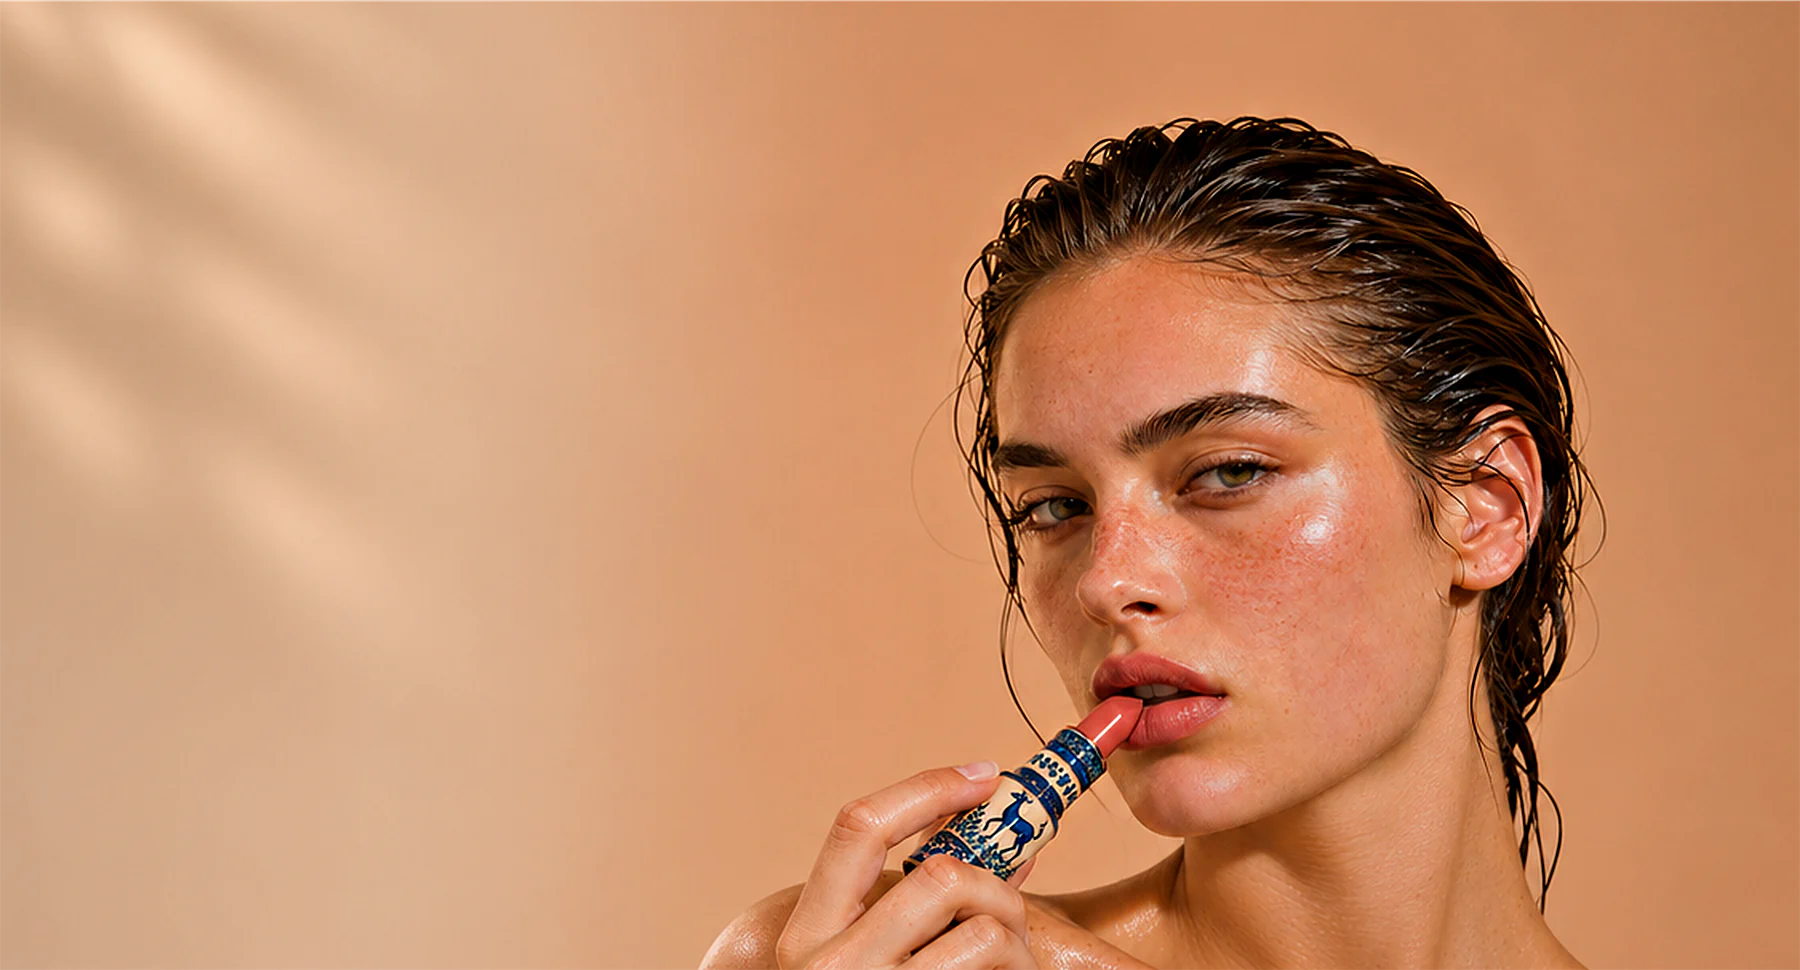
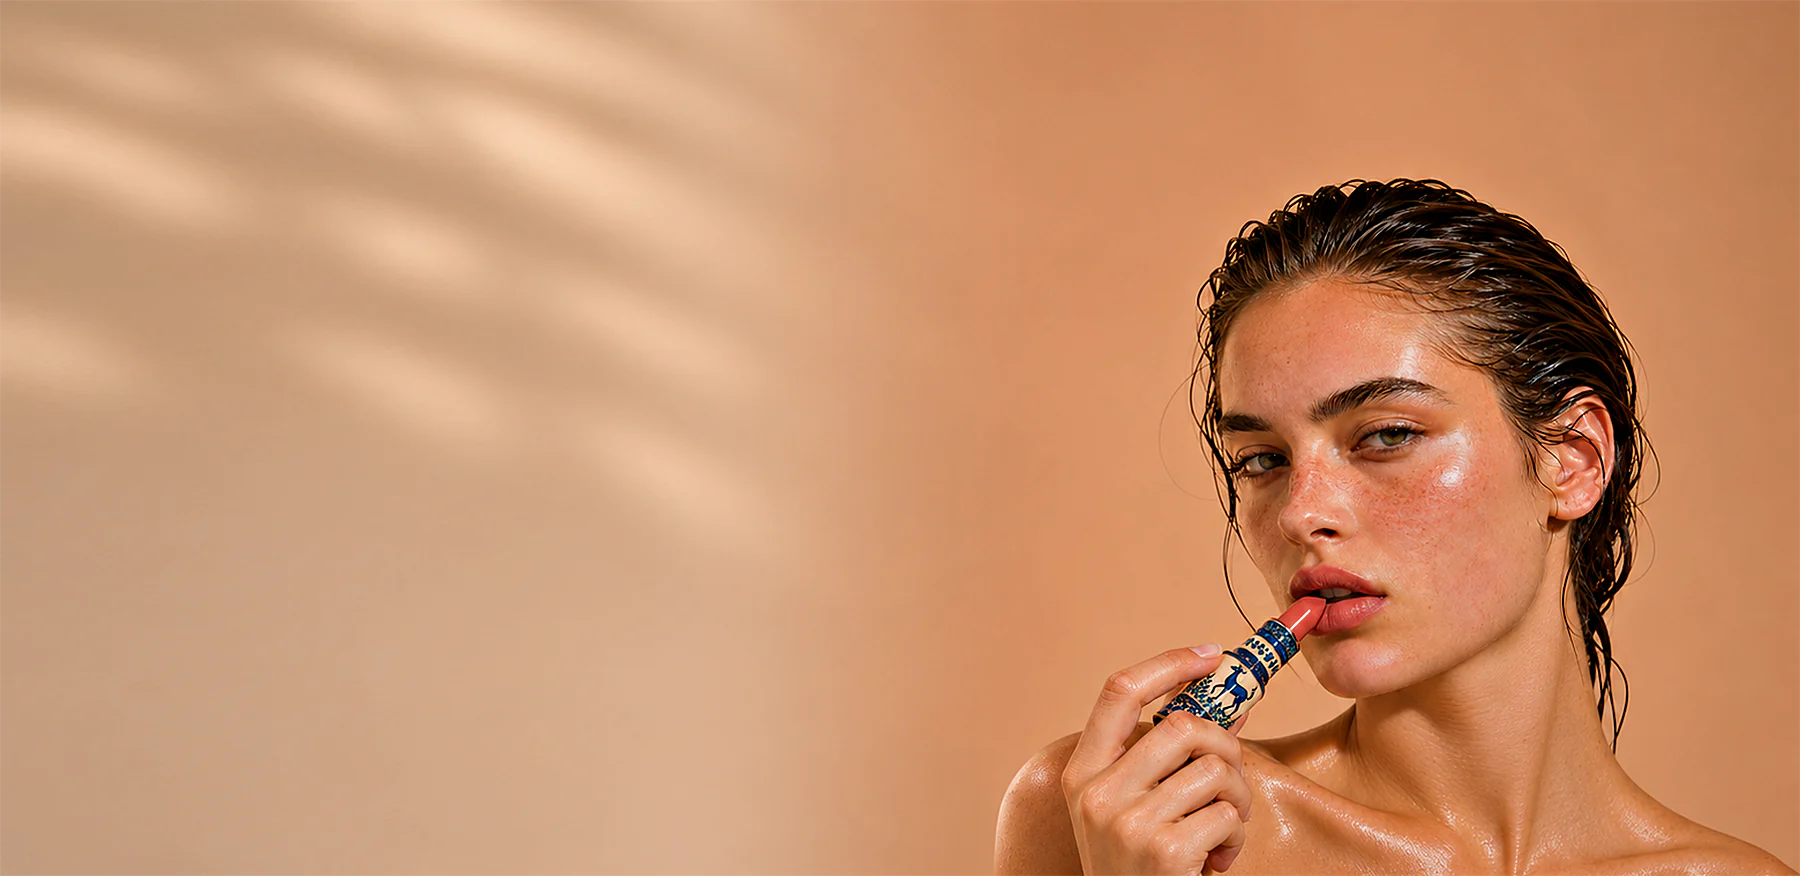
Pull the landing photo back with more wall, and make How IDs work a dropdown

diff --git a/index.html b/index.html
@@ -16,7 +16,7 @@
 <link rel="icon" href="assets/icon.png">
 <link rel="apple-touch-icon" href="assets/icon.png">
 <link rel="preload" href="assets/fonts/BOBUSignature-Regular.woff2" as="font" type="font/woff2" crossorigin>
-<link rel="stylesheet" href="styles.css?v=58">
+<link rel="stylesheet" href="styles.css?v=60">
 </head>
 <body>
 
@@ -26,7 +26,7 @@
     <a href="#kit">Products</a>
     <a href="#how">How it works</a>
     <a href="#store">Store</a>
-    <a href="formulas.html">Formula IDs</a>
+    <a href="#ids">Formula IDs</a>
     <a href="members.html">Members</a>
   </nav>
   <a class="pill pill-small" href="#app">Get the app</a>
@@ -36,8 +36,8 @@
 
   <section class="hero hero-home">
     <picture>
-      <source media="(min-width: 821px)" srcset="assets/photo/lipstick-wide-1800.webp 1800w, assets/photo/lipstick-wide-2800.webp 2800w, assets/photo/lipstick-wide-3676.webp 3676w" sizes="100vw">
-      <img class="hero-photo" src="assets/photo/lipstick-tall-860.webp" srcset="assets/photo/lipstick-tall-860.webp 860w, assets/photo/lipstick-tall-1170.webp 1170w, assets/photo/lipstick-tall-1700.webp 1700w" sizes="100vw" width="1700" height="2881" fetchpriority="high" alt="A woman with freckles and wet hair putting on a coral lipstick from an enamelled tube, in front of a warm wall with palm shadows">
+      <source media="(min-width: 821px)" srcset="assets/photo/lipstick-wide-1800.webp 1800w, assets/photo/lipstick-wide-2800.webp 2800w, assets/photo/lipstick-wide-3600.webp 3600w" sizes="100vw">
+      <img class="hero-photo" src="assets/photo/lipstick-tall-860.webp" srcset="assets/photo/lipstick-tall-860.webp 860w, assets/photo/lipstick-tall-1170.webp 1170w, assets/photo/lipstick-tall-1700.webp 1700w" sizes="100vw" width="1700" height="2511" fetchpriority="high" alt="A woman with freckles and wet hair putting on a coral lipstick from an enamelled tube, in front of a warm wall with palm shadows">
     </picture>
     <div class="hero-words">
       <h1 class="display">Makeup formulated just for you.</h1>
@@ -148,14 +148,28 @@
     <button class="pill" type="button" aria-disabled="true">Request to join the waitlist</button>
   </section>
 
-  <section class="ids">
+  <section class="ids" id="ids">
     <div class="copy">
       <h2 class="display">Every formula has an ID.</h2>
       <p>Your colour and your scan make one formula, with its own ID on the pack. Name it and share it, or buy someone else's.</p>
       <div class="hero-actions">
         <a class="pill" href="members.html">See the members</a>
-        <a class="link" href="formulas.html">How IDs work</a>
+        <button class="link ids-toggle" type="button" aria-expanded="false" aria-controls="ids-more">How IDs work<i aria-hidden="true"></i></button>
       </div>
+    </div>
+    <div class="ids-more" id="ids-more" hidden>
+      <p class="eyebrow">What an ID does</p>
+      <ul class="points">
+        <li><h3>It never changes</h3><p>The same ID is the same formula in every box.</p></li>
+        <li><h3>A new colour is a new ID</h3><p>The name you gave it stays.</p></li>
+        <li><h3>The name is yours</h3><p>Change it whenever you like.</p></li>
+      </ul>
+      <p class="eyebrow">Buying someone's formula</p>
+      <ul class="points">
+        <li><h3>Find it</h3><p>Browse members' profiles in the app.</p></li>
+        <li><h3>Add it</h3><p>One tap in the app.</p></li>
+        <li><h3>Wear it</h3><p>It arrives in your next box.</p></li>
+      </ul>
     </div>
     <div class="member-tiles"><a class="member-tile" href="members.html#gabriela"><img src="assets/photo/gabriela.webp" alt="Gabriela" width="750" height="750" loading="lazy"><p>Gabriela</p><code>F-8BBQ9K</code></a><a class="member-tile" href="members.html#mika"><img src="assets/photo/mika.webp" alt="Mika" width="750" height="750" loading="lazy"><p>Mika</p><code>F-JBJSXT</code></a></div>
   </section>
@@ -175,13 +189,13 @@
   <div class="footer-row">
     <span class="brand">BOBU</span>
     <p>Milano</p>
-    <a href="formulas.html">Formula IDs</a>
+    <a href="#ids">Formula IDs</a>
     <a href="members.html">Members</a>
     <p class="small">© 2026 BOBU Milano</p>
   </div>
   <img class="footer-panther" src="assets/art/panther-sitting.svg" alt="" loading="lazy">
 </footer>
 
-<script src="app.js?v=58" defer></script>
+<script src="app.js?v=60" defer></script>
 </body>
 </html>

diff --git a/styles.css b/styles.css
@@ -108,8 +108,8 @@ button { font: inherit; color: inherit; background: none; border: 0; padding: 0;
 .hero-actions { display: flex; align-items: center; gap: 22px; margin: 18px 0 12px; flex-wrap: wrap; }
 .hero-page .idcard { order: 1; margin: 18px var(--gutter) 40px; }
 /* The landing photo fills the section, and the words sit straight on its open wall. */
-.hero-home { --hu: min(1vw, 5.2px); display: block; position: relative; overflow: hidden; margin-top: var(--nav); padding: 0; height: min(169.4vw, calc(100svh - var(--nav))); background: var(--hero); }
-.hero-photo { position: absolute; inset: 0; width: 100%; height: 100%; max-width: none; object-fit: cover; object-position: 50% 70%; }
+.hero-home { --hu: min(1vw, 5.2px); display: block; position: relative; overflow: hidden; margin-top: var(--nav); padding: 0; height: min(147.7vw, calc(100svh - var(--nav))); background: var(--hero); }
+.hero-photo { position: absolute; inset: 0; width: 100%; height: 100%; max-width: none; object-fit: cover; object-position: 50% 0; }
 .hero-home .hero-words { display: block; position: relative; z-index: 1; padding: calc(4 * var(--hu)) var(--gutter) 0; }
 .hero-home h1 { color: color-mix(in srgb, var(--ink) 90%, #000); font-size: calc(9.8 * var(--hu)); text-align: left; padding: 0; margin-bottom: calc(1.5 * var(--hu)); }
 .hero-home .hero-foot { padding: 0; }
@@ -185,6 +185,14 @@ button { font: inherit; color: inherit; background: none; border: 0; padding: 0;
 .ids .copy { padding: 0 0 16px; }
 .ids .copy p { margin-bottom: 0; max-width: 30em; }
 .ids .hero-actions { margin: 18px 0 0; }
+.ids-toggle { display: inline-flex; align-items: center; gap: 9px; min-height: 44px; text-decoration: underline; }
+.ids-toggle i { width: 7px; height: 7px; margin-top: -3px; border-right: 1.5px solid; border-bottom: 1.5px solid; transform: rotate(45deg); }
+.ids-toggle[aria-expanded="true"] i { margin-top: 3px; transform: rotate(-135deg); }
+.ids-more { margin-top: 22px; }
+.ids-more[hidden] { display: none; }
+.ids-more .eyebrow { margin: 0; }
+.ids-more .points { margin: 10px 0 26px; }
+.ids-more .points:last-child { margin-bottom: 0; }
 
 /* Members */
 .member-tiles { display: grid; grid-template-columns: repeat(2, minmax(0, 1fr)); gap: 12px; margin-top: 22px; }
@@ -253,7 +261,7 @@ button { font: inherit; color: inherit; background: none; border: 0; padding: 0;
   .hero-foot .lede { font-size: clamp(18px, 1.5vw, 22px); }
   .hero-actions { margin: 24px 0 14px; }
   .hero-home { display: block; min-height: 0; padding: 0; height: min(calc(100svh - var(--nav)), 48.6vw); }
-  .hero-photo { object-position: 50% 49%; }
+  .hero-photo { object-position: 50% 35%; }
   .hero-home .hero-words { position: absolute; left: var(--gutter); top: 50%; transform: translateY(-50%); width: 40vw; padding: 0; }
   .hero-home h1 { font-size: clamp(36px, 5vw, 110px); margin-bottom: 1vw; }
   .hero-home .lede { font-size: clamp(15px, 1.5vw, 30px); max-width: 32vw; }
@@ -268,8 +276,12 @@ button { font: inherit; color: inherit; background: none; border: 0; padding: 0;
   .card.is-copy { display: block; }
   .card-copy .display { font-size: clamp(30px, 2.6vw, 40px); }
 
-  .ids { display: flex; align-items: center; justify-content: space-between; gap: clamp(32px, 5vw, 80px); padding: clamp(50px, 5vw, 80px) var(--gutter); }
-  .member-tiles { flex: 0 0 min(40vw, 560px); gap: 18px; margin: 0; }
+  .ids { display: grid; grid-template-columns: minmax(0, 1fr) min(40vw, 560px); column-gap: clamp(32px, 5vw, 80px); align-items: center; padding: clamp(50px, 5vw, 80px) var(--gutter); }
+  .ids .copy { grid-area: 1 / 1; }
+  .member-tiles { grid-area: 1 / 2; }
+  .ids-more { grid-column: 1 / -1; grid-row: 2; margin-top: clamp(32px, 3vw, 48px); }
+  .ids-more .points { margin: 14px 0 32px; }
+  .member-tiles { gap: 18px; margin: 0; }
   .hero-short { min-height: 0; padding-bottom: 12px; }
   .members { grid-template-columns: repeat(2, minmax(0, 1fr)); gap: clamp(32px, 5vw, 80px); padding: clamp(36px, 4vw, 60px) var(--gutter) 0; }
   .member { grid-template-columns: minmax(0, 44%) minmax(0, 1fr); grid-template-rows: auto 1fr; column-gap: 24px; align-items: start; }

diff --git a/formulas.html b/formulas.html
@@ -16,7 +16,7 @@
 <link rel="icon" href="assets/icon.png">
 <link rel="apple-touch-icon" href="assets/icon.png">
 <link rel="preload" href="assets/fonts/BOBUSignature-Regular.woff2" as="font" type="font/woff2" crossorigin>
-<link rel="stylesheet" href="styles.css?v=58">
+<link rel="stylesheet" href="styles.css?v=60">
 </head>
 <body>
 
@@ -26,7 +26,7 @@
     <a href="index.html#kit">Products</a>
     <a href="index.html#how">How it works</a>
     <a href="index.html#store">Store</a>
-    <a href="formulas.html">Formula IDs</a>
+    <a href="index.html#ids">Formula IDs</a>
     <a href="members.html">Members</a>
   </nav>
   <a class="pill pill-small" href="#app">Get the app</a>
@@ -94,13 +94,13 @@
   <div class="footer-row">
     <span class="brand">BOBU</span>
     <p>Milano</p>
-    <a href="formulas.html">Formula IDs</a>
+    <a href="index.html#ids">Formula IDs</a>
     <a href="members.html">Members</a>
     <p class="small">© 2026 BOBU Milano</p>
   </div>
   <img class="footer-panther" src="assets/art/panther-sitting.svg" alt="" loading="lazy">
 </footer>
 
-<script src="app.js?v=58" defer></script>
+<script src="app.js?v=60" defer></script>
 </body>
 </html>

diff --git a/members.html b/members.html
@@ -16,7 +16,7 @@
 <link rel="icon" href="assets/icon.png">
 <link rel="apple-touch-icon" href="assets/icon.png">
 <link rel="preload" href="assets/fonts/BOBUSignature-Regular.woff2" as="font" type="font/woff2" crossorigin>
-<link rel="stylesheet" href="styles.css?v=58">
+<link rel="stylesheet" href="styles.css?v=60">
 </head>
 <body>
 
@@ -26,7 +26,7 @@
     <a href="index.html#kit">Products</a>
     <a href="index.html#how">How it works</a>
     <a href="index.html#store">Store</a>
-    <a href="formulas.html">Formula IDs</a>
+    <a href="index.html#ids">Formula IDs</a>
     <a href="members.html">Members</a>
   </nav>
   <a class="pill pill-small" href="#app">Get the app</a>
@@ -79,13 +79,13 @@
   <div class="footer-row">
     <span class="brand">BOBU</span>
     <p>Milano</p>
-    <a href="formulas.html">Formula IDs</a>
+    <a href="index.html#ids">Formula IDs</a>
     <a href="members.html">Members</a>
     <p class="small">© 2026 BOBU Milano</p>
   </div>
   <img class="footer-panther" src="assets/art/panther-sitting.svg" alt="" loading="lazy">
 </footer>
 
-<script src="app.js?v=58" defer></script>
+<script src="app.js?v=60" defer></script>
 </body>
 </html>

diff --git a/app.js b/app.js
@@ -148,6 +148,18 @@ function onScroll() {
 window.addEventListener('scroll', onScroll, { passive: true });
 window.addEventListener('resize', () => { for (const s of sequences) s.shown = -1; onScroll(); });
 
+// "How IDs work" opens in place.
+
+const idsToggle = document.querySelector('.ids-toggle');
+if (idsToggle) {
+  const panel = document.getElementById(idsToggle.getAttribute('aria-controls'));
+  idsToggle.addEventListener('click', () => {
+    const open = panel.hidden;
+    panel.hidden = !open;
+    idsToggle.setAttribute('aria-expanded', String(open));
+  });
+}
+
 // Card rails: swipe on a phone; on wide screens drag or use the arrows, and the set loops.
 
 document.querySelectorAll('.rail').forEach((rail) => {
